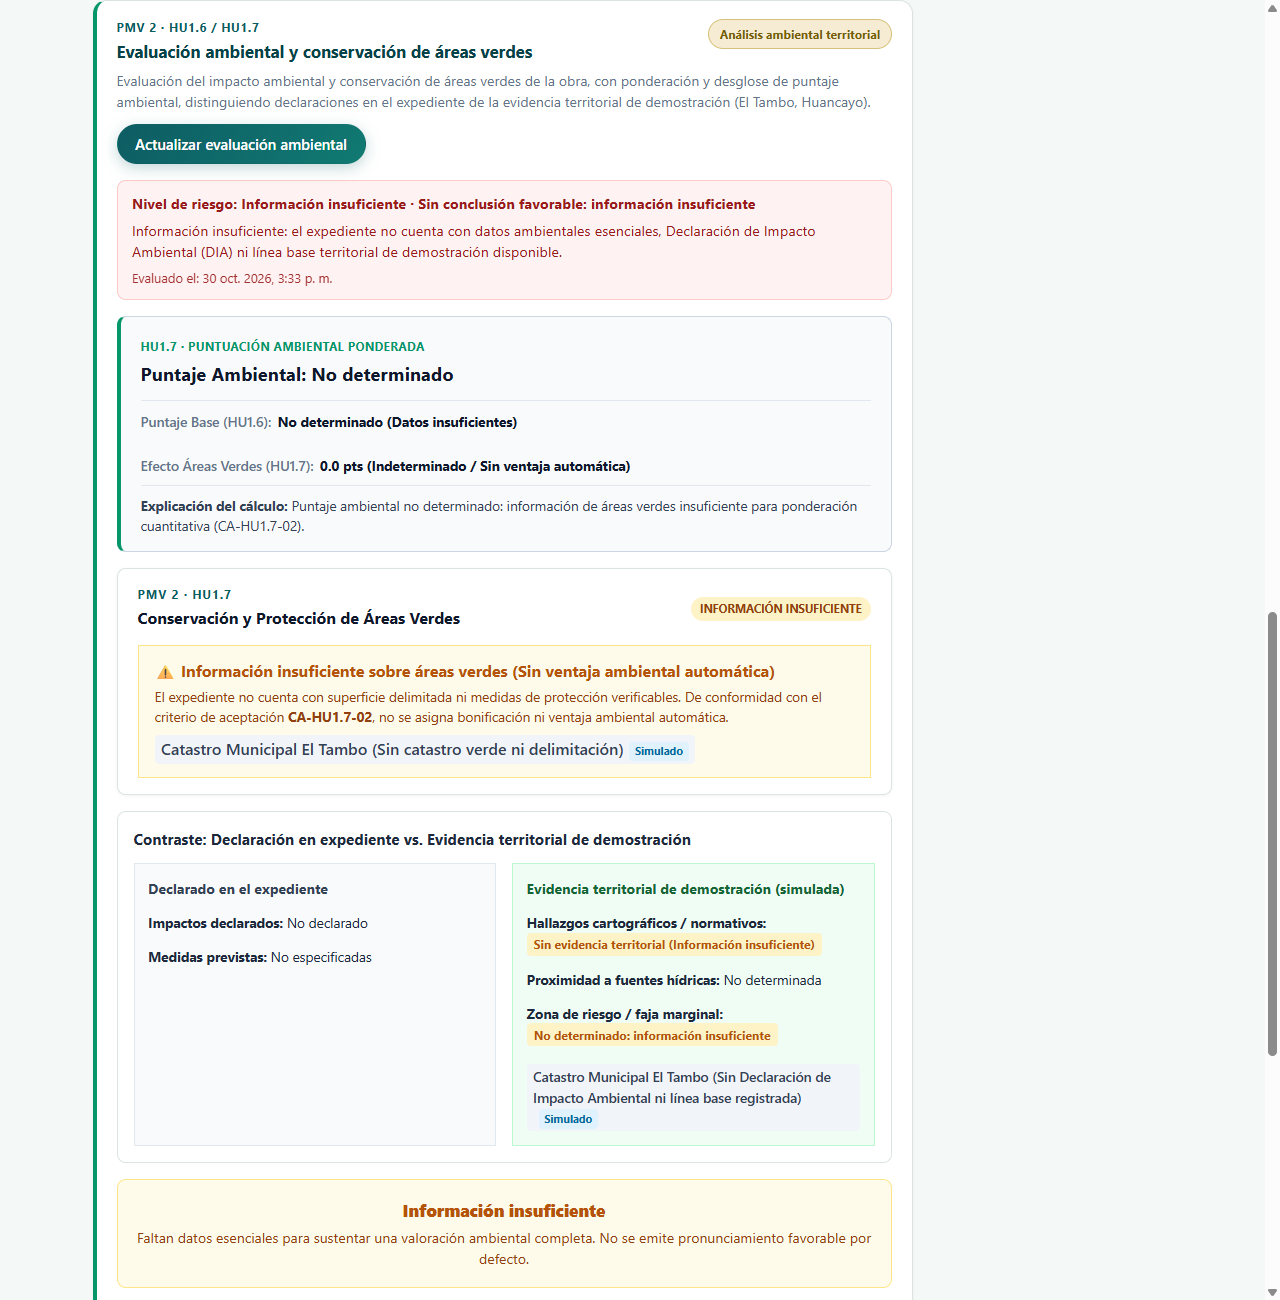
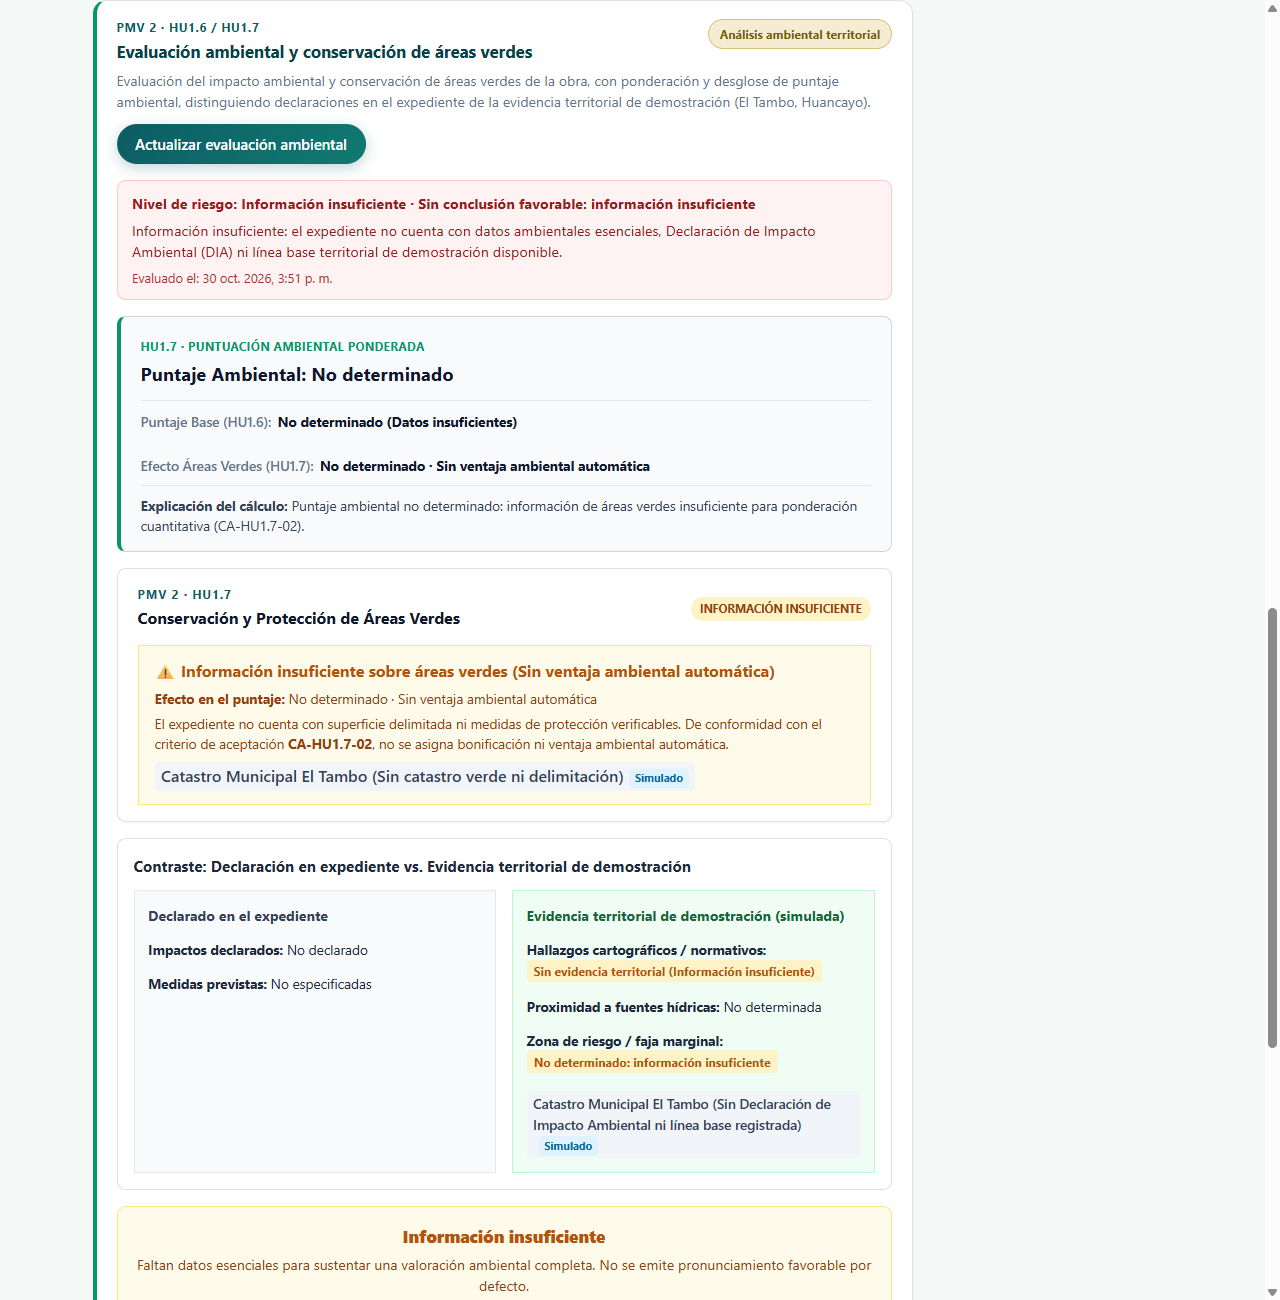
fix: distinguir efecto nulo de areas verdes de cero en datos insuficientes HU1.7

diff --git a/frontend/src/features/proyecto/ProyectoDetallePage.tsx b/frontend/src/features/proyecto/ProyectoDetallePage.tsx
@@ -470,8 +470,8 @@ export function ProyectoDetallePage() {
                             ? `+${environmentalAssessment.green_area.score_effect_pts.toFixed(1)} pts (${environmentalAssessment.green_area.effect_type})`
                             : environmentalAssessment.green_area.score_effect_pts < 0
                             ? `${environmentalAssessment.green_area.score_effect_pts.toFixed(1)} pts (${environmentalAssessment.green_area.effect_type})`
-                            : `0.0 pts (${environmentalAssessment.green_area.effect_type})`
-                          : '0.0 pts (Indeterminado / Sin ventaja automática)'}
+                            : '0.0 pts (Neutro)'
+                          : 'No determinado · Sin ventaja ambiental automática'}
                       </span>
                     </div>
                   </div>
@@ -505,6 +505,12 @@ export function ProyectoDetallePage() {
                         <div style={{ fontWeight: 700, color: '#b45309', marginBottom: '0.25rem' }}>
                           ⚠ Información insuficiente sobre áreas verdes (Sin ventaja ambiental automática)
                         </div>
+                        <p style={{ margin: '0.35rem 0', fontSize: '0.85rem', color: '#92400e', lineHeight: 1.45 }}>
+                          <strong>Efecto en el puntaje:</strong>{' '}
+                          {environmentalAssessment.green_area.score_effect_pts !== null && environmentalAssessment.green_area.score_effect_pts !== undefined
+                            ? `${environmentalAssessment.green_area.score_effect_pts.toFixed(1)} pts`
+                            : 'No determinado · Sin ventaja ambiental automática'}
+                        </p>
                         <p style={{ margin: 0, fontSize: '0.85rem', color: '#92400e', lineHeight: 1.45 }}>
                           El expediente no cuenta con superficie delimitada ni medidas de protección verificables. De conformidad con el criterio de aceptación <strong>CA-HU1.7-02</strong>, no se asigna bonificación ni ventaja ambiental automática.
                         </p>
@@ -570,7 +576,7 @@ export function ProyectoDetallePage() {
                                 : environmentalAssessment.green_area.score_effect_pts < 0
                                 ? `${environmentalAssessment.green_area.score_effect_pts.toFixed(1)} pts (Penalización)`
                                 : '0.0 pts (Neutro)'
-                              : '0.0 pts'}
+                              : 'No determinado · Sin ventaja ambiental automática'}
                           </div>
                           <p className="green-detail-text" style={{ marginTop: '0.25rem' }}>
                             {environmentalAssessment.green_area.calculation_explanation}

diff --git a/backend/tests/test_environmental_assessment_service.py b/backend/tests/test_environmental_assessment_service.py
@@ -580,3 +580,83 @@ def test_platform_service_hu17_live_db():
     fetched_a = service.get_environmental_assessment(PROJECT_A_ID)
     assert fetched_a["environmental_score"] == 85.0
     assert fetched_a["green_area"]["score_effect_pts"] == 15.0
+
+
+def test_environmental_engine_green_area_distinguishes_null_from_zero():
+    """Distingue estrictamente un efecto nulo (null / sin datos) de un efecto calculado neutro (0.0 pts).
+
+    - Si faltan datos o la evaluación no puede determinar el efecto cuantitativo:
+      score_effect_pts DEBE ser None (null en JSON), NO 0.0, y NO otorga ventaja automática.
+    - Si la intervención cuenta con mitigación y reposición equivalente acreditada:
+      score_effect_pts DEBE ser 0.0 (cero numérico), effect_type='neutro', manteniendo el puntaje base.
+    """
+    env_records_sufficient = [{
+        "environmental_component": "aire_acustico_residuos",
+        "has_sufficient_data": True,
+        "declared_impacts": "Nivelación de terreno.",
+        "declared_measures": "Riego y mallas.",
+        "verifiable_evidence": "Ubicación consolidada fuera de faja marginal.",
+        "proximity_to_water_meters": 400.0,
+        "is_in_protected_or_risk_area": False,
+        "source_name": "PDM Huancayo",
+    }]
+
+    # 1. Caso Neutro: 0.0 pts numérico calculado explícitamente (afectación mitigada con medidas suficientes)
+    green_records_neutral = [{
+        "has_sufficient_data": True,
+        "total_project_area_m2": 2000.0,
+        "green_area_m2": 200.0,
+        "green_area_percentage": 10.0,
+        "delimitation_description": "Delimitado en plano perimétrico.",
+        "declared_affectation": "Remoción temporal con reposición.",
+        "verifiable_affectation": "Plan de reposición equivalente verificado.",
+        "affectation_type": "afectacion_mitigada",
+        "protection_measures": "Reposición de 200 m2 de áreas verdes.",
+        "has_sufficient_measures": True,
+        "score_effect_pts": 0.0,
+        "effect_type": "neutro",
+        "calculation_explanation": "Efecto neutro (0.0 pts): la intervención cuenta con medidas de reposición y compensación equivalentes acreditadas.",
+        "source_name": "Catastro Municipal",
+    }]
+
+    res_neutral = EnvironmentalAssessmentEngine.evaluate(
+        project_id=PROJECT_A_ID,
+        project_code="PRY-A",
+        project_version_id=uuid4(),
+        records=env_records_sufficient,
+        green_records=green_records_neutral,
+    )
+    assert res_neutral["green_area"]["score_effect_pts"] == 0.0
+    assert res_neutral["green_area"]["score_effect_pts"] is not None
+    assert res_neutral["green_area"]["effect_type"] == "neutro"
+    assert res_neutral["environmental_score"] == 70.0  # Base 70.0 + 0.0 = 70.0
+
+    # 2. Caso Datos Insuficientes: score_effect_pts DEBE ser None (null), NUNCA 0.0
+    green_records_insufficient = [{
+        "has_sufficient_data": False,
+        "total_project_area_m2": None,
+        "green_area_m2": None,
+        "green_area_percentage": None,
+        "delimitation_description": None,
+        "declared_affectation": None,
+        "verifiable_affectation": None,
+        "affectation_type": "sin_datos",
+        "protection_measures": None,
+        "has_sufficient_measures": False,
+        "score_effect_pts": None,
+        "effect_type": "indeterminado",
+        "calculation_explanation": "Información insuficiente: no se asigna bonificación.",
+        "source_name": "Catastro Municipal",
+    }]
+
+    res_insufficient = EnvironmentalAssessmentEngine.evaluate(
+        project_id=PROJECT_B_ID,
+        project_code="PRY-B",
+        project_version_id=uuid4(),
+        records=env_records_sufficient,
+        green_records=green_records_insufficient,
+    )
+    assert res_insufficient["green_area"]["score_effect_pts"] is None
+    assert res_insufficient["green_area"]["score_effect_pts"] != 0.0
+    assert res_insufficient["green_area"]["effect_type"] == "indeterminado"
+    assert res_insufficient["environmental_score"] is None

diff --git a/backend/tests/test_pmv1_official_api.py b/backend/tests/test_pmv1_official_api.py
@@ -1269,3 +1269,4 @@ def test_environmental_assessment_hu17_pry_b_insufficient_no_automatic_advantage
     assert body["favorable"] is None
     assert body["green_area"]["has_sufficient_data"] is False
     assert body["green_area"]["score_effect_pts"] is None
+    assert body["green_area"]["score_effect_pts"] != 0.0
